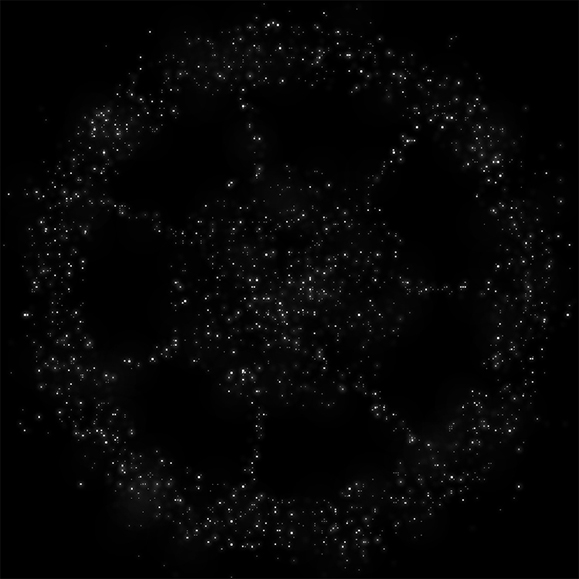
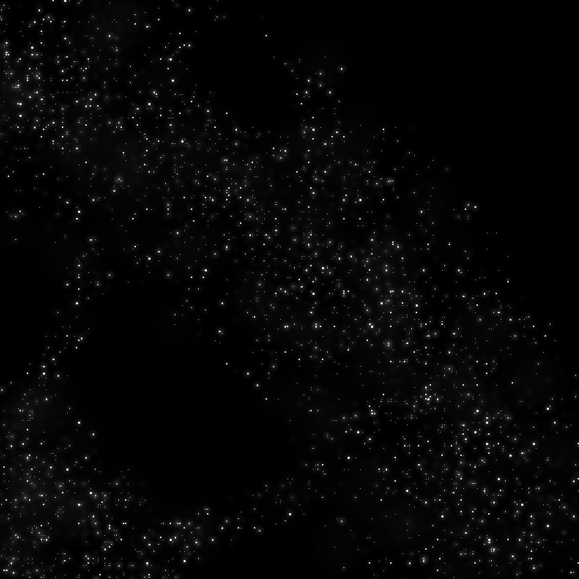
config pour la partie s11

diff --git a/system/modules/gaia/main.php b/system/modules/gaia/main.php
@@ -9,7 +9,16 @@ include_once 'resource/SquadronResource.res.php';
 
 // classes
 include_once 'class/GalaxyColorManager.class.php';
-include_once SYSTEMR . 'config/galaxies/GalaxyConfiguration.v1.php';
+
+# s7/s11 - révolte seldarine --> quart supérieur droit de la carte, 2 ponts
+include_once SYSTEMR . 'config/galaxies/GalaxyConfiguration.v2.php';
+# s8 - révolution cardanienne --> bandeau
+#include_once SYSTEMR . 'config/galaxies/GalaxyConfiguration.v3.php';
+# s9 - empire contre-attaque --> quart de carte, 2 ponts
+#include_once SYSTEMR . 'config/galaxies/GalaxyConfiguration.v4.php';
+# s10 - chute des archontes --> carte entière, 7 ponts
+#include_once SYSTEMR . 'config/galaxies/GalaxyConfiguration.v1.php';
+
 include_once 'class/GalaxyGenerator.class.php';
 include_once 'class/PointLocation.class.php';
 include_once 'class/SectorManager.class.php';

diff --git a/system/config/app.config.install.php b/system/config/app.config.install.php
@@ -1,3 +1,11 @@
 <?php
 # liste les IDs de factions disponibles
-$AVAILABLE_FACTIONS	= [1, 2, 6, 7, 11];
+
+# s7/s11 - révolte seldarine
+$AVAILABLE_FACTIONS = [1, 4, 8, 9];
+# s8 - révolution cardanienne
+#$AVAILABLE_FACTIONS = [4, 8, 10, 11, 12];
+# s9 - empire contre-attaque
+#$AVAILABLE_FACTIONS = [1, 8, 11];
+# s10 - chute des archontes
+#$AVAILABLE_FACTIONS	= [1, 2, 6, 7, 11];
